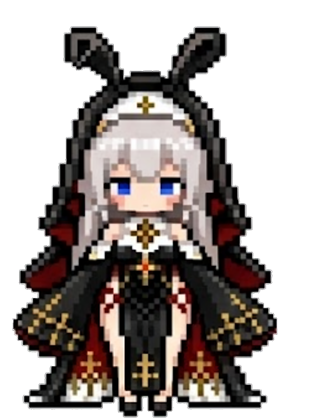
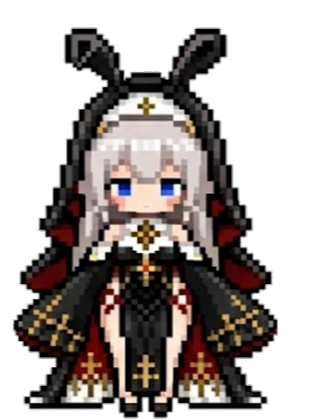
おともの5フレームを足元でそろえて書き出し直し、コマ送りの横滑りをなくした
Live2Dからの書き出しでフレームごとに足元と下端が数pxズレていたため、
tools/pin-frames.js で足元中心144.5・下端418に焼き直した。
app.js 側はフレームごとの補正table（MASCOT_FEET_X）をやめて共通値にし、
ゆれは行きと帰りを同じ順に通して頭のブレを抑えている。

diff --git a/tools/pin-frames.js b/tools/pin-frames.js
@@ -1,0 +1,165 @@
+/* =========================================================
+   おとも（Talk-AI-images/web/*.png）の立ち位置をそろえるツール
+
+   何をするか
+     5枚のフレームは Live2D から書き出したときに 立ち位置と下端が
+     数px ずつズレていて、コマを切り替えるたびにキャラが横滑りする。
+     このツールは「足元（下端から12px）の左右中心」と「下端の y」を
+     全フレームで idel に合わせ、画像そのものに焼き込む。
+     ※ 拡大率は実測で 0.4% 以内しか違わなかったので触らない。
+        （大きさを変えると顔の描き込みが甘くなるため）
+
+   使い方
+     1) プロジェクトのルートでローカルサーバーを立てる
+          python -m http.server 8123
+     2) node tools/pin-frames.js          … 計測だけ（書き出さない）
+        node tools/pin-frames.js --apply  … 書き出す
+     元の画像は Talk-AI-images/web/_before/ に退避される（初回のみ）。
+
+   出力後は app.js の MASCOT_FEET_X（=144.5）が全フレーム共通で使える。
+   元絵を差し替えたら、このツールを流し直してから値を確認すること。
+   ========================================================= */
+const fs = require('fs');
+const path = require('path');
+const { spawn } = require('child_process');
+
+const ORIGIN = process.env.ORIGIN || 'http://127.0.0.1:8123';
+const APPLY = process.argv.includes('--apply');
+const PROJ = path.resolve(__dirname, '..');
+const WEB_DIR = path.join(PROJ, 'Talk-AI-images', 'web');
+const NAMES = ['idel', 'yure1', 'yure2', 'mabataki1', 'mabataki2'];
+const REF = 'idel';
+const W = 332, H = 420;
+const WEBP_QUALITY = 0.95;
+
+const CHROME_CANDIDATES = [
+  process.env.CHROME,
+  'C:\\Program Files\\Google\\Chrome\\Application\\chrome.exe',
+  'C:\\Program Files (x86)\\Google\\Chrome\\Application\\chrome.exe',
+  '/Applications/Google Chrome.app/Contents/MacOS/Google Chrome',
+  '/usr/bin/google-chrome'
+].filter(Boolean);
+const CHROME = CHROME_CANDIDATES.find((p) => { try { return fs.existsSync(p); } catch (e) { return false; } });
+if (!CHROME) { console.error('Chrome が見つかりません。環境変数 CHROME で指定してください。'); process.exit(1); }
+
+const PORT = 9366;
+const TMP = path.join(require('os').tmpdir(), 'pin-frames-profile');
+const sleep = (ms) => new Promise((r) => setTimeout(r, ms));
+
+const proc = spawn(CHROME, [
+  '--headless=new', '--disable-gpu', '--no-first-run', '--no-default-browser-check',
+  '--remote-debugging-port=' + PORT, '--user-data-dir=' + TMP, 'about:blank'
+], { stdio: 'ignore' });
+
+(async () => {
+  let target = null;
+  for (let i = 0; i < 40; i++) {
+    try {
+      const r = await fetch(`http://127.0.0.1:${PORT}/json/list`);
+      target = (await r.json()).find((x) => x.type === 'page');
+      if (target) break;
+    } catch (e) { /* まだ起動中 */ }
+    await sleep(300);
+  }
+  if (!target) { console.error('Chrome の起動に失敗しました'); proc.kill(); process.exit(1); }
+
+  const ws = new WebSocket(target.webSocketDebuggerUrl);
+  let id = 0; const pending = new Map();
+  await new Promise((r) => { ws.onopen = r; });
+  ws.onmessage = (e) => {
+    const m = JSON.parse(e.data);
+    if (m.id && pending.has(m.id)) { pending.get(m.id)(m.result); pending.delete(m.id); }
+  };
+  const send = (method, params) => new Promise((res) => {
+    const mid = ++id; pending.set(mid, res);
+    ws.send(JSON.stringify({ id: mid, method, params: params || {} }));
+  });
+  const js = async (expr) => {
+    const r = await send('Runtime.evaluate', { expression: expr, awaitPromise: true, returnByValue: true, timeout: 600000 });
+    if (r.exceptionDetails) {
+      console.error('実行エラー:', r.exceptionDetails.exception?.description || r.exceptionDetails.text);
+      ws.close(); proc.kill(); process.exit(1);
+    }
+    return r.result && r.result.value;
+  };
+
+  await send('Page.enable'); await send('Runtime.enable');
+  await send('Page.navigate', { url: ORIGIN + '/index.html' });
+  await sleep(1500);
+
+  const raw = await js(`(async () => {
+    const NAMES = ${JSON.stringify(NAMES)}, REF = ${JSON.stringify(REF)};
+    const W = ${W}, H = ${H};
+    async function load(n){ const i = new Image(); i.src = 'Talk-AI-images/web/' + n + '.png'; await i.decode(); return i; }
+    function measure(src){
+      const c = document.createElement('canvas'); c.width = W; c.height = H;
+      const x = c.getContext('2d', { willReadFrequently: true });
+      x.drawImage(src, 0, 0);
+      const d = x.getImageData(0, 0, W, H).data;
+      const rows = []; let top = -1, bot = -1;
+      for (let y = 0; y < H; y++) {
+        let l = -1, r = -1;
+        for (let px = 0; px < W; px++) if (d[(y*W+px)*4+3] > 60) { if (l < 0) l = px; r = px; }
+        rows.push(l < 0 ? null : { l, r });
+        if (l >= 0) { if (top < 0) top = y; bot = y; }
+      }
+      let fl = 1e9, fr = -1;
+      for (let y = Math.max(0, bot-12); y <= bot; y++) { const rr = rows[y]; if (rr) { if (rr.l < fl) fl = rr.l; if (rr.r > fr) fr = rr.r; } }
+      return { top, bot, feetC: (fl + fr) / 2 };
+    }
+    const imgs = {}, before = {};
+    for (const n of NAMES) { imgs[n] = await load(n); before[n] = measure(imgs[n]); }
+    const ref = before[REF];
+    const shift = {}, png = {}, webp = {}, after = {};
+    for (const n of NAMES) {
+      const dx = Math.round((ref.feetC - before[n].feetC) * 2) / 2;
+      const dy = ref.bot - before[n].bot;
+      shift[n] = { dx, dy };
+      const c = document.createElement('canvas'); c.width = W; c.height = H;
+      const x = c.getContext('2d');
+      x.imageSmoothingEnabled = true; x.imageSmoothingQuality = 'high';
+      x.drawImage(imgs[n], dx, dy);
+      png[n] = c.toDataURL('image/png');
+      webp[n] = c.toDataURL('image/webp', ${WEBP_QUALITY});
+      after[n] = measure(c);
+    }
+    return JSON.stringify({ before, shift, after, png, webp });
+  })()`);
+
+  const o = JSON.parse(raw);
+  const line = (n, m) => ` ${n.padEnd(11)} 足元中心 ${String(m.feetC).padStart(6)}   下端 ${String(m.bot).padStart(3)}   上端 ${String(m.top).padStart(3)}`;
+  console.log('--- いまの状態 ---');
+  NAMES.forEach((n) => console.log(line(n, o.before[n])));
+  console.log('\n--- 焼き込む平行移動 ---');
+  NAMES.forEach((n) => console.log(` ${n.padEnd(11)} dx=${String(o.shift[n].dx).padStart(5)}  dy=${String(o.shift[n].dy).padStart(3)}`));
+  console.log('\n--- 焼き込んだ後 ---');
+  NAMES.forEach((n) => console.log(line(n, o.after[n])));
+
+  const spread = (obj, k) => {
+    const v = NAMES.map((n) => obj[n][k]);
+    return +(Math.max(...v) - Math.min(...v)).toFixed(2);
+  };
+  console.log('\nばらつき  足元中心:', spread(o.before, 'feetC'), '→', spread(o.after, 'feetC'),
+    ' / 下端:', spread(o.before, 'bot'), '→', spread(o.after, 'bot'));
+  console.log('\napp.js の MASCOT_FEET_X に使う値:', o.after[REF].feetC);
+
+  if (APPLY) {
+    const bak = path.join(WEB_DIR, '_before');
+    fs.mkdirSync(bak, { recursive: true });
+    NAMES.forEach((n) => {
+      ['png', 'webp'].forEach((ext) => {
+        const s = path.join(WEB_DIR, n + '.' + ext);
+        const d = path.join(bak, n + '.' + ext);
+        if (fs.existsSync(s) && !fs.existsSync(d)) fs.copyFileSync(s, d);
+      });
+      const p = Buffer.from(o.png[n].split(',')[1], 'base64');
+      const w = Buffer.from(o.webp[n].split(',')[1], 'base64');
+      fs.writeFileSync(path.join(WEB_DIR, n + '.png'), p);
+      fs.writeFileSync(path.join(WEB_DIR, n + '.webp'), w);
+      console.log('書き出し', n.padEnd(11), Math.round(p.length / 1024) + 'KB(png)', Math.round(w.length / 1024) + 'KB(webp)');
+    });
+  } else {
+    console.log('\n※ 計測のみ。書き出すには --apply を付けて実行');
+  }
+  ws.close(); proc.kill(); process.exit(0);
+})();

diff --git a/assets/js/app.js b/assets/js/app.js
@@ -988,8 +988,8 @@
      ---------------------------------------------------------
      GIF は使わず、静止画5枚を JS で切り替えて動かす。
      ずっとループはせず、待機のあいだにランダムで1回だけ差し込む：
-       右に ゆれる： idel → yure1        → yure2        → idel
-       左に ゆれる： idel → yure1(反転)  → yure2(反転)  → idel
+       右に ゆれる： idel → yure1       → yure2       → yure1       → idel
+       左に ゆれる： idel → yure1(反転) → yure2(反転) → yure1(反転) → idel
        まばたき　： idel → mabataki1 → mabataki2 → mabataki1 → idel
 
      出る場所：
@@ -999,16 +999,18 @@
      ========================================================= */
   const MASCOT_DIR = 'Talk-AI-images/web/';
   const MASCOT_FRAMES = ['idel', 'yure1', 'yure2', 'mabataki1', 'mabataki2'];
-  /* 各フレームの「足元の中心」のx座標（332×420 の画像内で実測）。
-     キャラはフレーム中央（x=166）より左に立っているため、そのまま
-     scaleX(-1) すると立ち位置が右へ約43px 飛ぶ。表示時に idel の
-     立ち位置へ translateX で補正して、足元を固定する。
-     元絵を差し替えたら計測し直すこと。 */
+  /* 足元の中心x（332×420 の画像内）。
+     5枚とも 足元中心 144.5 / 下端 418 にそろえて書き出してあるので
+     フレームごとの補正は不要。キャラは画像の中央（x=166）より左に
+     立っているため、scaleX(-1) したときだけ立ち位置が右へ飛ぶ。
+     それを translateX で戻して足元を固定する。
+     元絵を差し替えたら tools/pin-frames.js で焼き直すこと。 */
   const MASCOT_W = 332;
-  const MASCOT_FEET_X = { idel: 144.6, yure1: 148.3, yure2: 144.5,
-                          mabataki1: 144.8, mabataki2: 144.5 };
-  /* [フレーム名, 表示ミリ秒] */
-  const MASCOT_SWAY  = [['idel', 90], ['yure1', 150], ['yure2', 240], ['idel', 130]];
+  const MASCOT_FEET_X = 144.5;
+  /* [フレーム名, 表示ミリ秒]
+     戻りを1回で飛ばすと頭が大きくブレるので、行きも帰りも同じ順に通す */
+  const MASCOT_SWAY  = [['idel', 90], ['yure1', 130], ['yure2', 200],
+                        ['yure1', 120], ['idel', 90]];
   const MASCOT_BLINK = [['idel', 60], ['mabataki1', 70], ['mabataki2', 95],
                         ['mabataki1', 70], ['idel', 60]];
 
@@ -1034,13 +1036,14 @@
     },
 
     /* 1枚だけ見せる。flip = true なら左右反転。
-       どのフレーム・向きでも足元が idel と同じ位置に来るよう補正する */
+       反転しても足元が同じ位置に来るよう translateX で戻す */
     show(name, flip) {
       MASCOT_FRAMES.forEach((n) => {
         this.imgs[n].classList.toggle('is-on', n === name);
       });
-      const feet = flip ? (MASCOT_W - MASCOT_FEET_X[name]) : MASCOT_FEET_X[name];
-      const dx = (MASCOT_FEET_X.idel - feet) / MASCOT_W * 100;
+      const dx = flip
+        ? (MASCOT_FEET_X - (MASCOT_W - MASCOT_FEET_X)) / MASCOT_W * 100
+        : 0;
       this.imgs[name].style.transform =
         'translateX(' + dx.toFixed(2) + '%)' + (flip ? ' scaleX(-1)' : '');
     },
